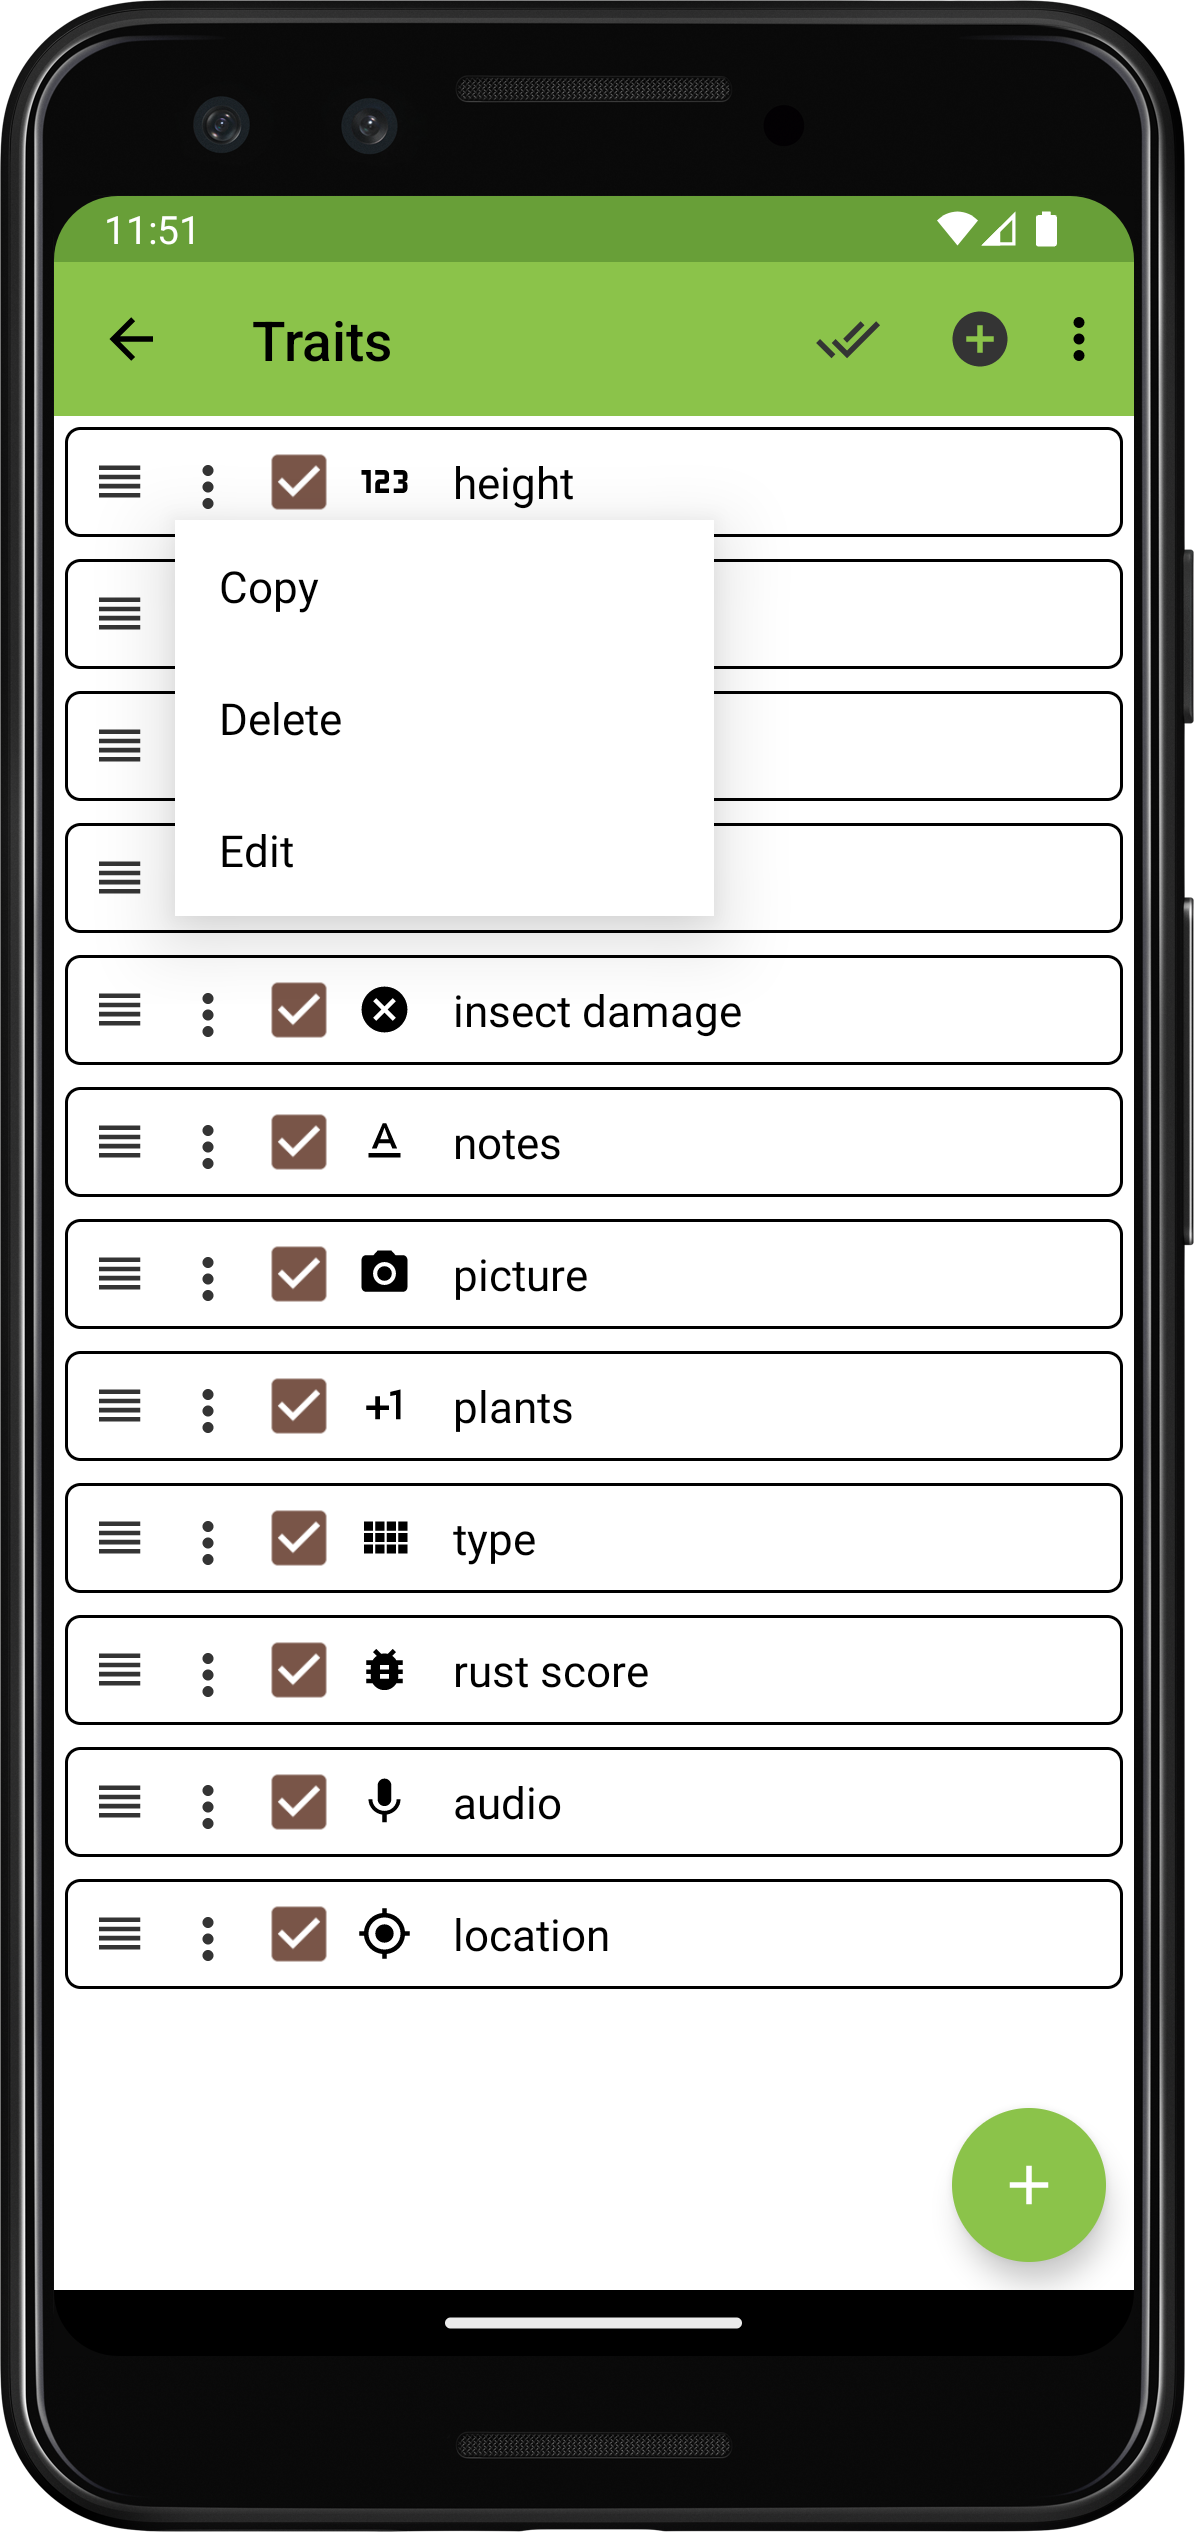
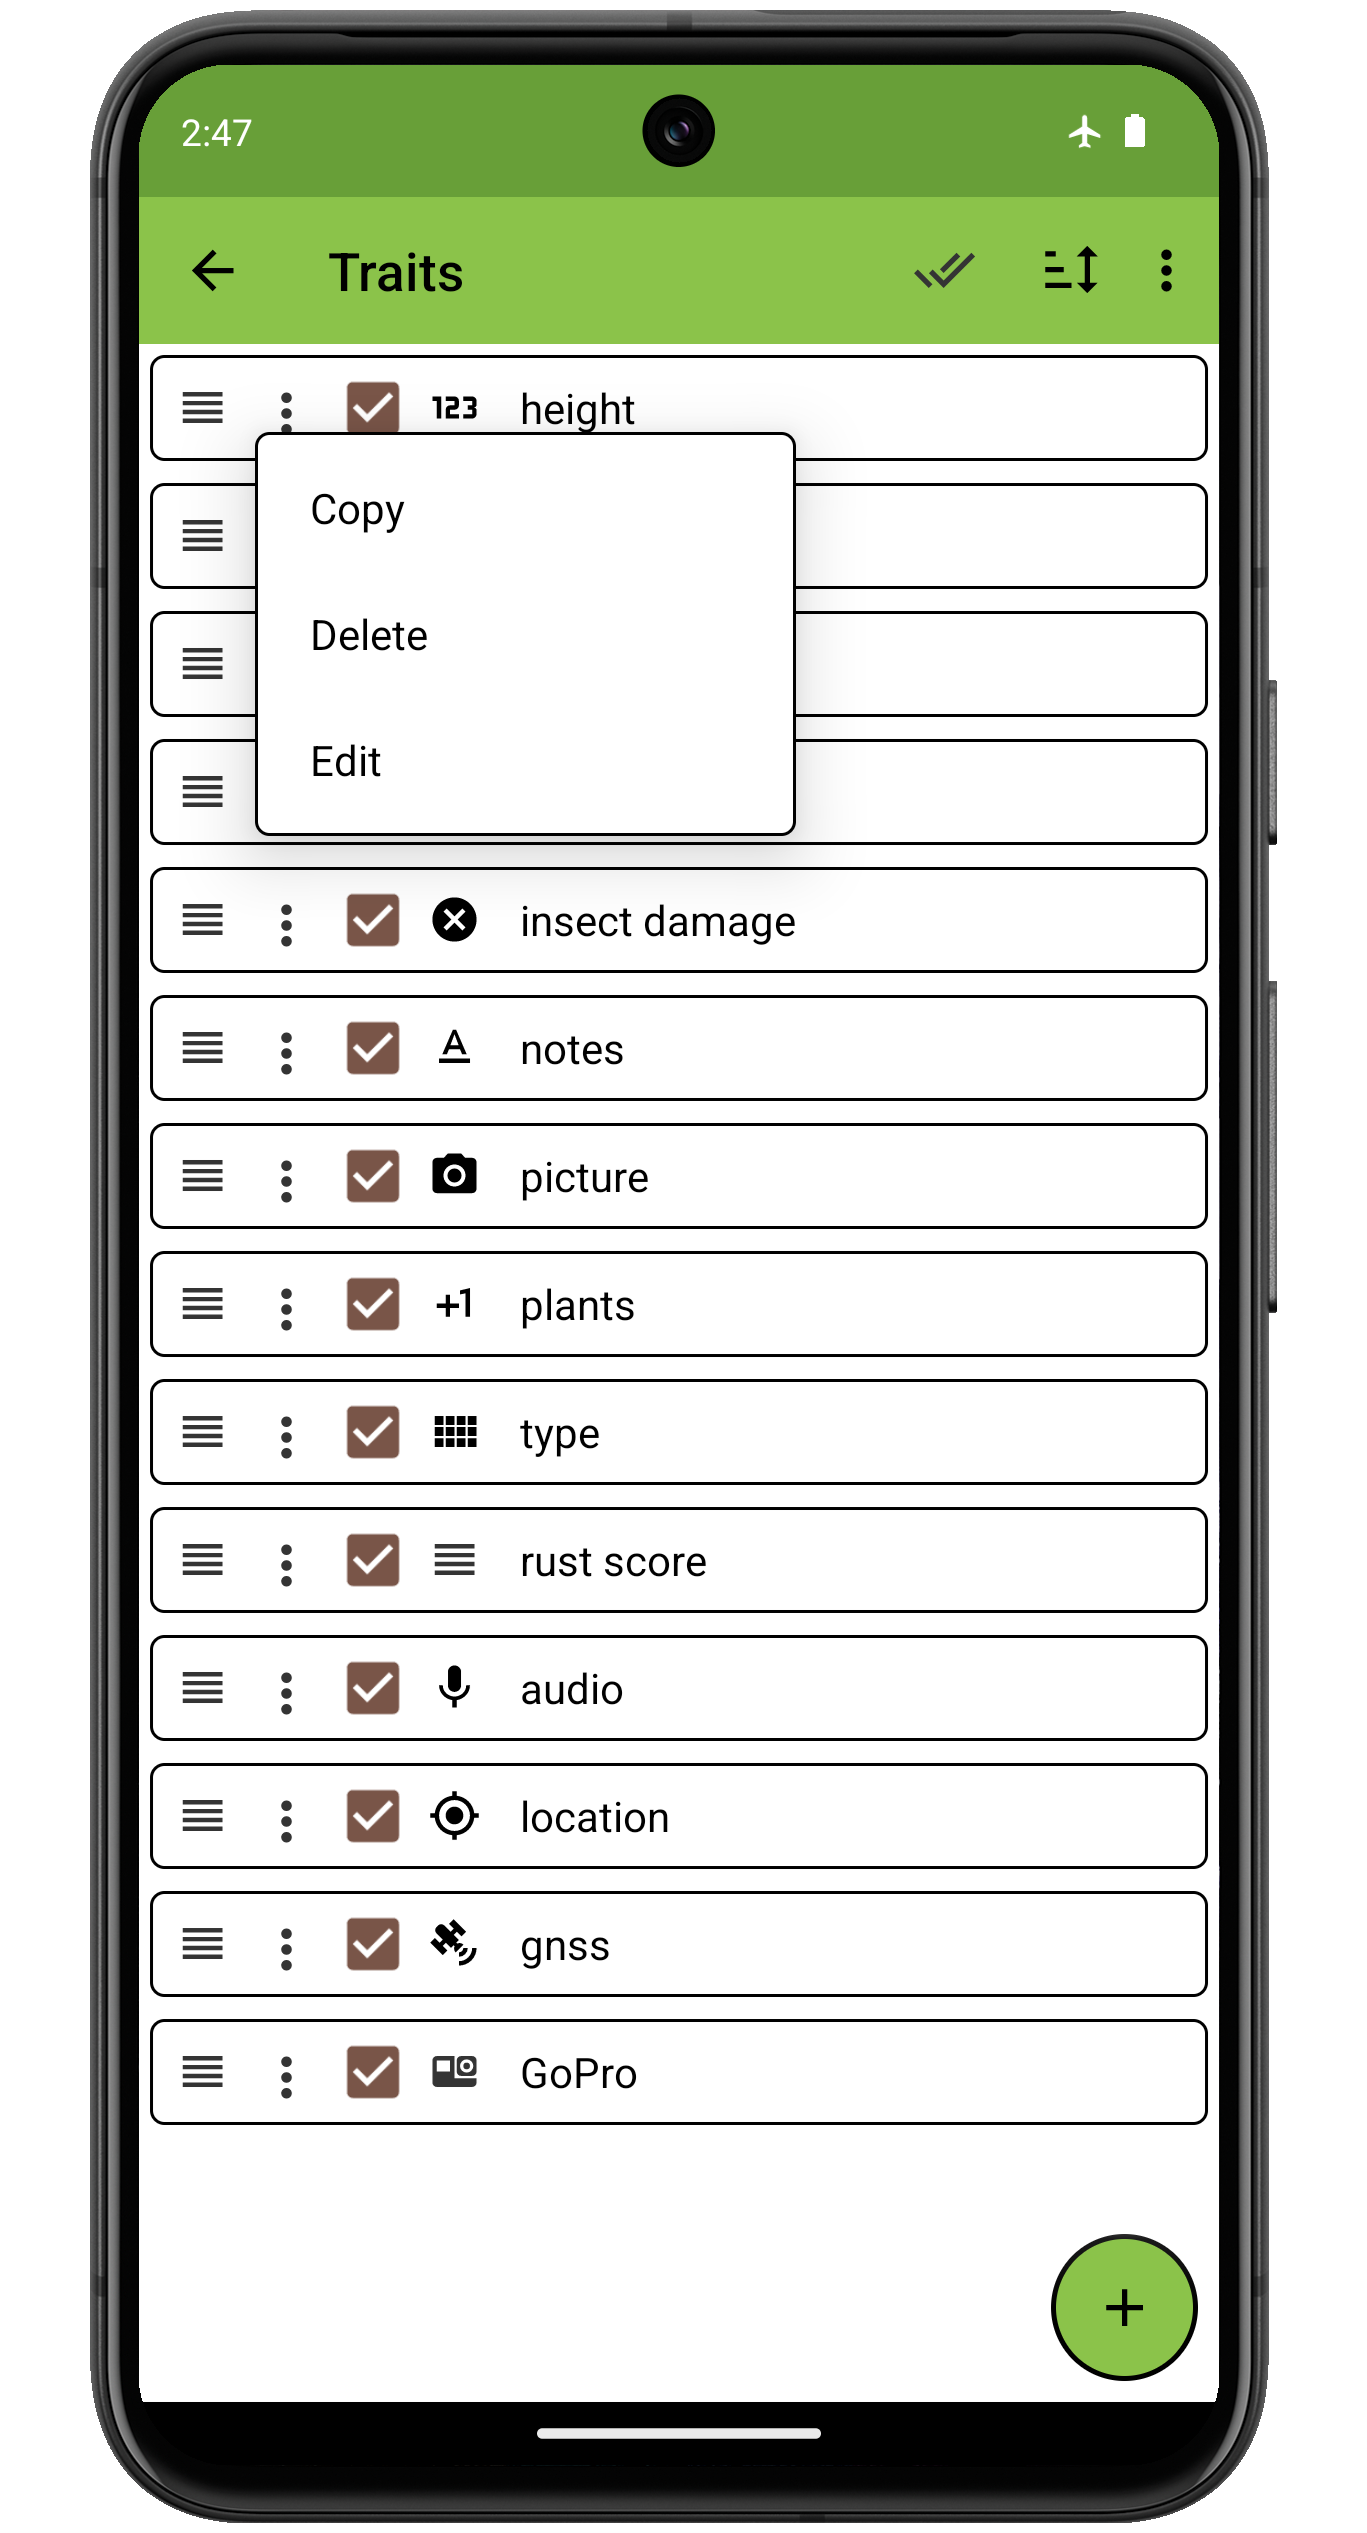
deploy: dff350b3643af72caa9ccd94b1213361ab90a2fa

diff --git a/fields.md b/fields.md
@@ -106,7 +106,7 @@ serpentine plot numbering. Unique IDs will be generated automatically. Confirm t
 
 To import a field using BrAPI, first make sure BrAPI is enabled and configured in the <a href="settings-brapi.md"><img style="vertical-align: middle;" src="_static/icons/settings/main/server-network.png" width="20px"></a> [Brapi settings](settings-brapi.md)
 
-Then the BrAPI Display Name of the server you connected to will show up as one of the choices in the add field options. Check out the <a href="brapi.md"></a> [BrAPI](brapi.md) section of the documentation for details of the import process, as well as trait import, sync, and data export.
+Then the BrAPI Display Name of the server you connected to will show up as one of the choices in the add field options. Check out the <a href="brapi.md"></a> [BrAPI](brapi.md) section of the documentation for details of the field import process, as well as trait import, sync, and data export.
 
 !> Any field can be exported locally, but only fields that have been imported via BrAPI are able to export data via BrAPI. And only if that data is also collected using BrAPI-imported traits.
 
@@ -153,9 +153,9 @@ The first collapsible section includes metadata about the field (import source, 
 
   - **Rename** is used to edit the name displayed for the field throughout the app.
 
-  - **Sort** provides a dialog to update the plot ordering. Populate the sort menu by pressing the <img ref="plus" style="vertical-align: middle;" src="_static/icons/fields/plus.png" width="20px"> icon, and selecting from the list of imported columns. Once columns have been added, change their relative priority by using the <img ref="reorder" style="vertical-align: middle;" src="_static/icons/traits/reorder-horizontal.png" width="20px"> icon to drag and reorder them. Press the <img ref="sort" style="vertical-align: middle;" src="_static/icons/fields/sort-ascending.png" width="20px"> icon to toggle the sort between ascending and descending. Press the <img ref="delete" style="vertical-align: middle;" src="_static/icons/settings/sounds/delete.png" width="20px"> icon to remove a column.
+  - **Sort** provides a dialog to update the plot ordering. Populate the sort menu by pressing the <img ref="plus" style="vertical-align: middle;" src="_static/icons/fields/plus.png" width="20px"> icon, and selecting from the list of imported columns. Once columns have been added, change their relative priority by using the <img ref="reorder" style="vertical-align: middle;" src="_static/icons/traits/reorder-horizontal.png" width="20px"> icon to drag and reorder them. Press the <img ref="sort" style="vertical-align: middle;" src="_static/icons/fields/sort.png" width="20px"> icon to toggle the sort between ascending and descending. Press the <img ref="delete" style="vertical-align: middle;" src="_static/icons/settings/sounds/delete.png" width="20px"> icon to remove a column.
 
-The following sections can be pressed to <a href="collect.md"><img style="vertical-align: middle;" src="_static/icons/home/barley.png" width="20px"></a>[Collect](collect.md) data for the field, <a href="export.md"><img style="vertical-align: middle;" src="_static/icons/home/save.png" width="20px"></a> [Export](export.md) the field's data, and (if the field was imported via BrAPI) <a href="brapi.md"><img style="vertical-align: middle;" src="_static/icons/.png" width="20px"></a> [Brapi](brapi.md) the field's data by pulling in any new observations.
+The following sections can be pressed to <a href="collect.md"><img style="vertical-align: middle;" src="_static/icons/home/barley.png" width="20px"></a>[Collect](collect.md) data for the field, <a href="export.md"><img style="vertical-align: middle;" src="_static/icons/home/save.png" width="20px"></a> [Export](export.md) the field's data, and (if the field was imported via BrAPI) <a href="brapi.md"><img style="vertical-align: middle;" src="_static/icons/settings/main/server-network.png.png" width="20px"></a> [Brapi](brapi.md) the field's data by pulling in any new observations.
 
 The final collapsible section summarizes that data that has been collected for the field so far. It shows an overall trait and observation count, and then for each trait a collapsible card with the observation count for the trait, the percentage of entries with observations of the trait, and, if applicable for the trait type, a chart showing the distribution of observations.
 

diff --git a/traits.md b/traits.md
@@ -19,10 +19,7 @@ Creating a Trait
 ----------------
 
 Traits can be created by pressing the large <img ref="add" style="vertical-align: middle;" src="_static/icons/traits/plus-circle.png" width="20px"> icon at the
-bottom right of the screen, or the same icon in the toolbar. For each
-format, the creation screen adjusts to indicate which fields are
-required. Trait names must be unique. Each trait is created by
-specifying a trait `format`, a trait `name`, optional `details`, and
+bottom right of the screen. Select a format, then fill in the required fields in the format-specific dialog. Trait names must be unique. Each trait has a `format`, a trait `name`, optional `details`, and
 format-dependent fields such as `min`, `max`, and `default`.
 
 <figure align="center" class="image">
@@ -52,9 +49,9 @@ Once created, traits can be manipulated using the following features:
 
 - Make all traits **Visible** or **Invisible** by pressing the <img ref="check-all" style="vertical-align: middle;" src="_static/icons/traits/check-all.png" width="20px"> icon in the toolbar.
 
-- Open the trait **Menu** using the <img ref="menu" style="vertical-align: middle;" src="_static/icons/traits/dots-vertical.png" width="20px"> icon on right side of the toolbar to access additional operations affecting all traits.
+- Reorder all traits by pressing the <img ref="check-all" style="vertical-align: middle;" src="_static/icons/traits/sort.png" width="20px"> icon in the toolbar, and then selecting one of the sort criterion (options include trait `Name`, `Format`, `Import Order`, and `Visibility`)
 
-- Within the menu, select **Sort** to reorder all traits according to one of the sort criterion (options include trait `Name`, `Format`, or `Visibility`)
+- Open the trait **Menu** using the <img ref="menu" style="vertical-align: middle;" src="_static/icons/traits/dots-vertical.png" width="20px"> icon on right side of the toolbar to access additional operations affecting all traits.
   
 - Select **Delete all traits**, then confirm, to remove every trait in the list.
   
@@ -66,8 +63,11 @@ Once created, traits can be manipulated using the following features:
 </figure>
 
 Trait imports and exports are similar to field imports/exports in that
-they rely on files stored in a dedicated folder, or on communication
-with a designated server using a <a href="brapi.md"><img style="vertical-align: middle;" src="_static/icons/settings/main/server-network.png" width="20px"></a> [Brapi](brapi.md) connection.
+they rely on files stored in a dedicated folder (Local Storage), or on using the device file manager to select a trait file anywhere on the device, including from cloud utilities like Google Drive (Cloud Storage).
+
+BrAPI imports are accessed separately, in the create trait workflow. First make sure BrAPI is enabled and configured in the <a href="settings-brapi.md"><img style="vertical-align: middle;" src="_static/icons/settings/main/server-network.png" width="20px"></a> [Brapi settings](settings-brapi.md)
+
+Then the BrAPI Display Name of the server you connected to will show up as the last format choice in the list when you press the create trait icon in the bottom right of the screen. Check out the <a href="brapi.md"></a> [BrAPI](brapi.md) section of the documentation for details of the trait import process, as well as field import, sync, and data export.
 
 ?> When using local storage, trait lists are stored as `.trt` files in the
 `trait` folder. Technically `.trt` files are just `.csv` files with the extension renamed; exported `.trt` files can be opened as `.csv` if desired. However it is not recommended to manually edit and reimport these files, trait edits are best done within the application.
